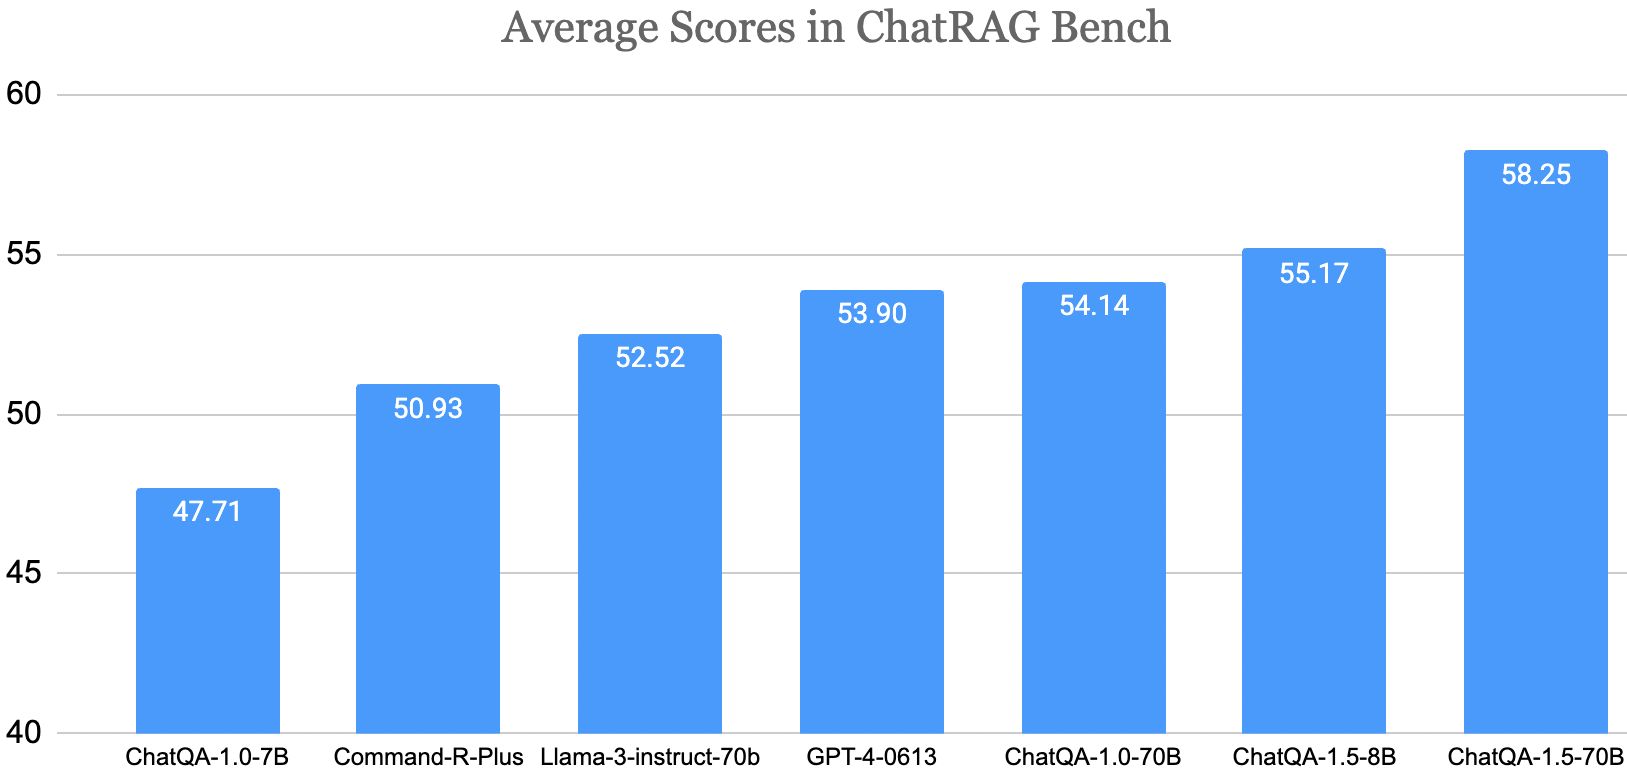
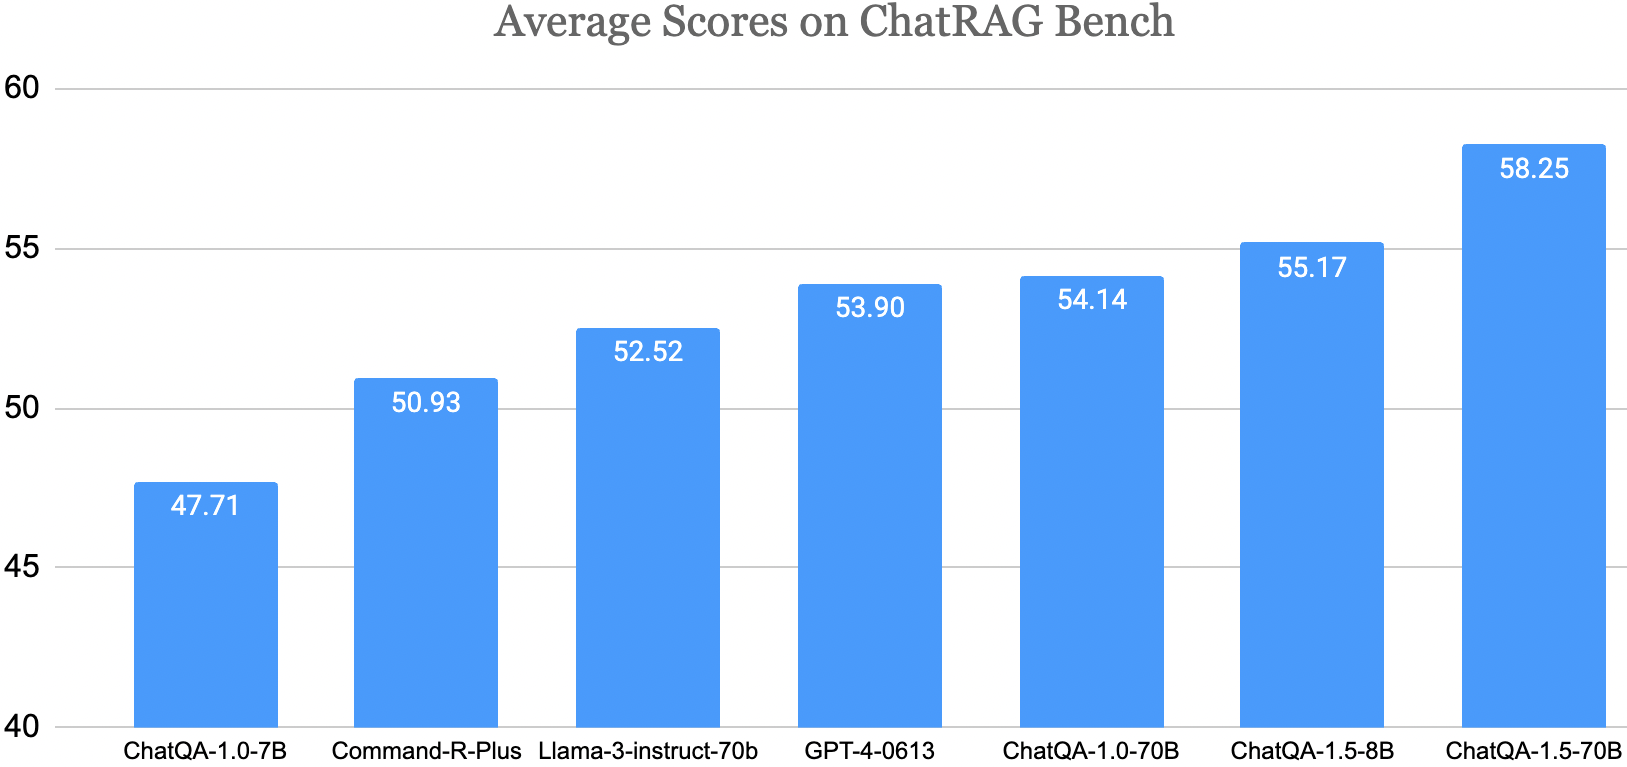
update web

diff --git a/index.html b/index.html
@@ -137,7 +137,7 @@
       <img class="img-humaneval" src="figs/human_eval.png">
     </figure>
     
-    In this human evaluation, we randomly select 60 samples from each of 10 datasets in ChatRAG Bench, and each sample is labelled by three annotators, which results in a total of 1800 annotations. We ask annotators to verify the facts in models' outputs and determine which model provides a more accurate response to the question. From the results, ChatQA-1.0-70B and GPT-4 are tie most of the time, and GPT-4 achieves slightly higher win rate.
+    In this human evaluation, we randomly select 60 samples from each of 10 datasets on ChatRAG Bench, and each sample is labelled by three annotators, which results in a total of 1800 annotations. We ask annotators to verify the facts in models' outputs and determine which model provides a more accurate response to the question. From the results, ChatQA-1.0-70B and GPT-4 are tie most of the time, and GPT-4 achieves slightly higher win rate.
 
   <h3>Training Datasets</h3>
     We release the <a href="https://huggingface.co/datasets/nvidia/ChatQA-Training-Data" class="custom-link">training datasets</a> described in <a href="https://arxiv.org/abs/2401.10225" class="custom-link">ChatQA (1.0)</a>.
